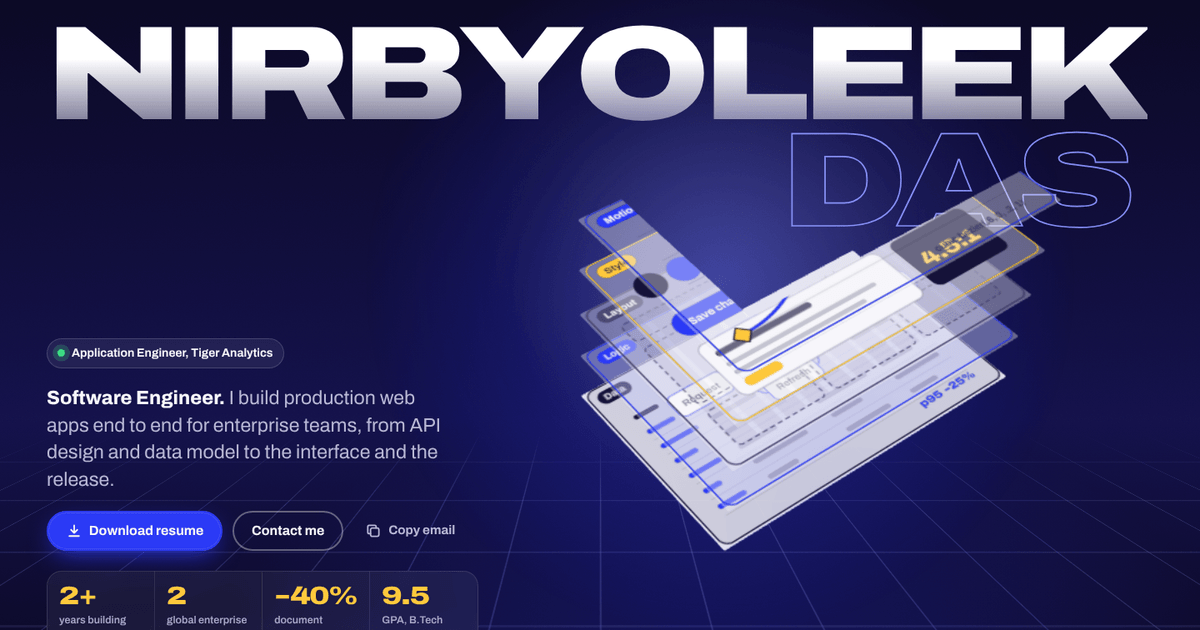
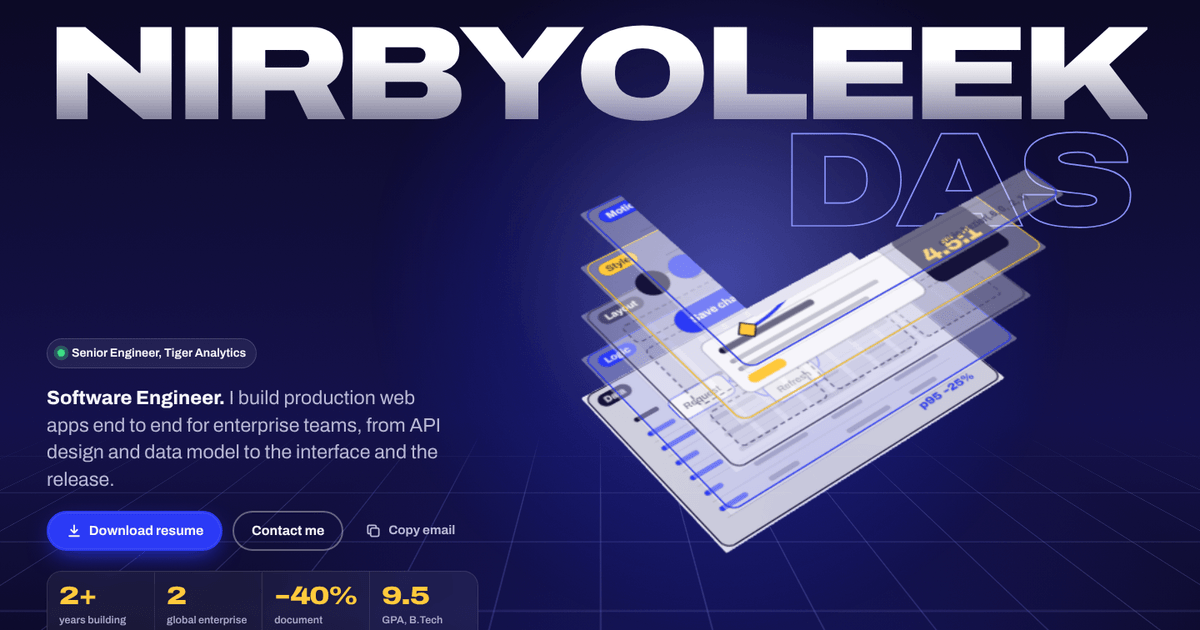
Update current title to Senior Engineer

diff --git a/src/data/content.ts b/src/data/content.ts
@@ -87,7 +87,7 @@ export const person: Person = {
   role: "Software Engineer",
   headline:
     "I build production web apps end to end for enterprise teams, from API design and data model to the interface and the release.",
-  current: { title: "Application Engineer", company: "Tiger Analytics" },
+  current: { title: "Senior Engineer", company: "Tiger Analytics" },
   location: "India",
   email: "nirbyoleek152001@gmail.com",
   phone: "+91 79080 94747",
@@ -144,7 +144,7 @@ export const impact: Impact[] = [
 export const experience: Role[] = [
   {
     company: "Tiger Analytics",
-    title: "Application Engineer",
+    title: "Senior Engineer",
     place: "Chennai",
     start: "2024-08",
     end: null,
